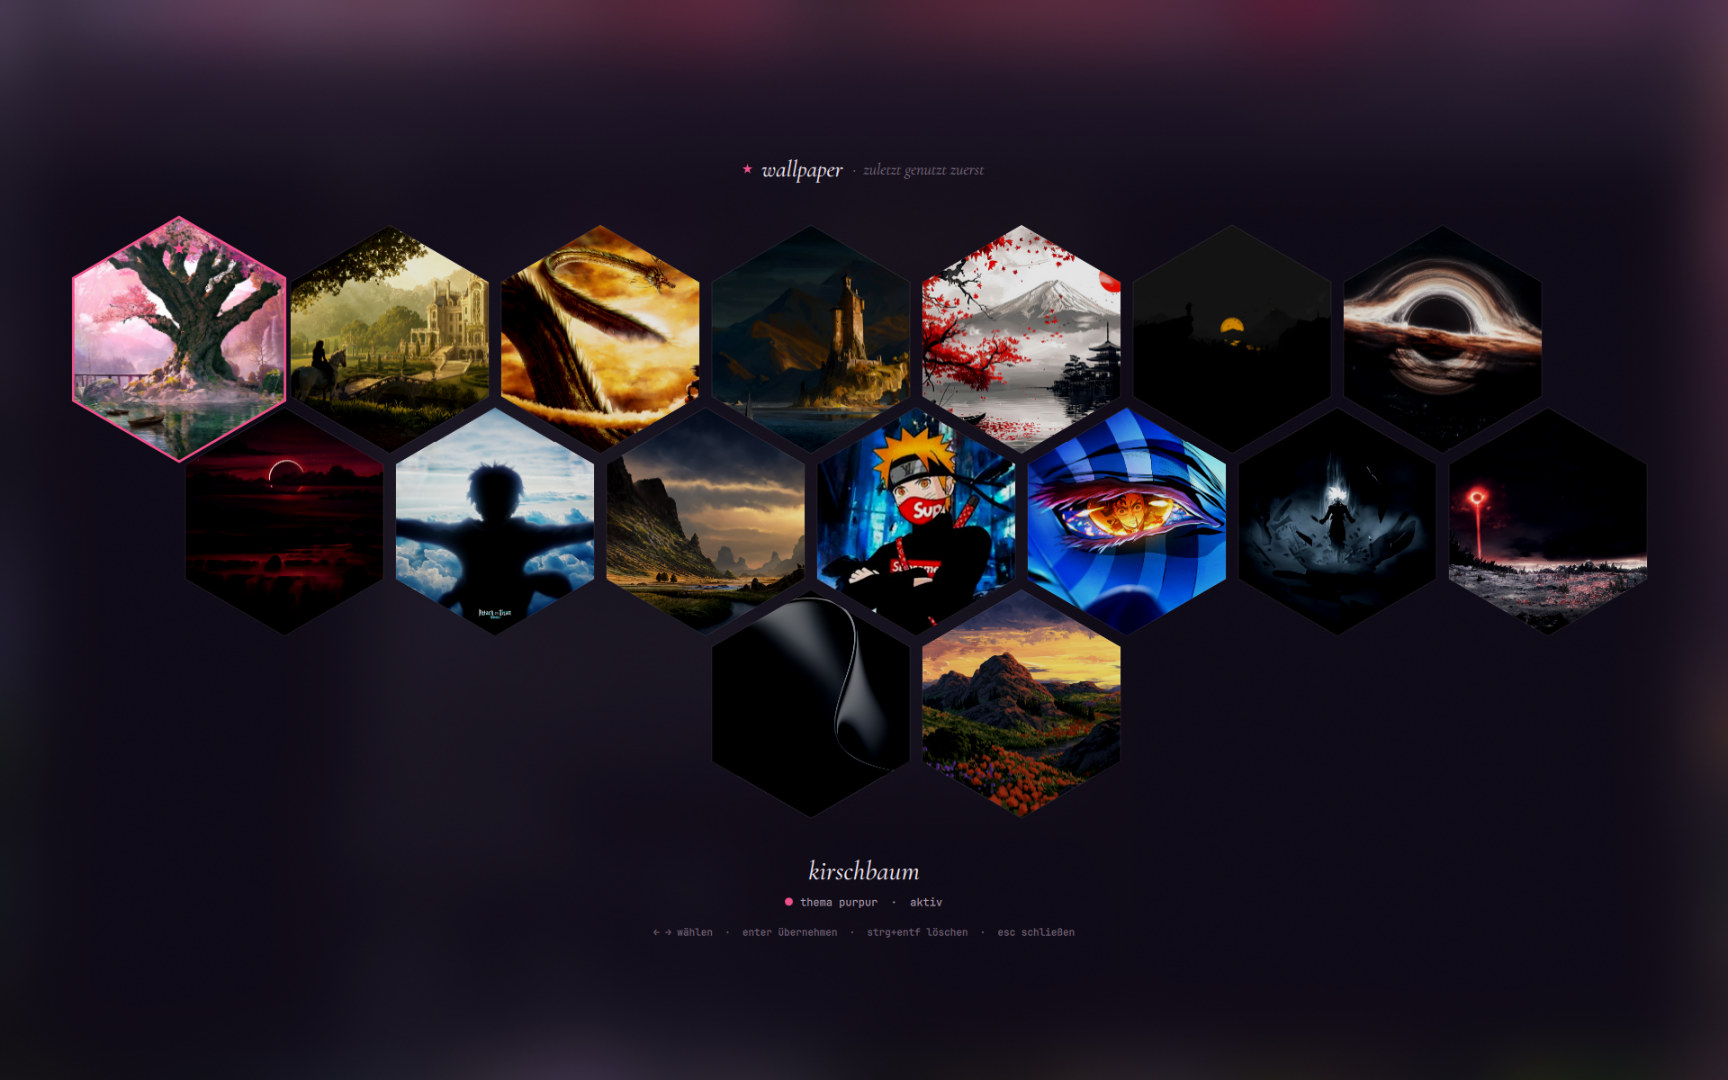
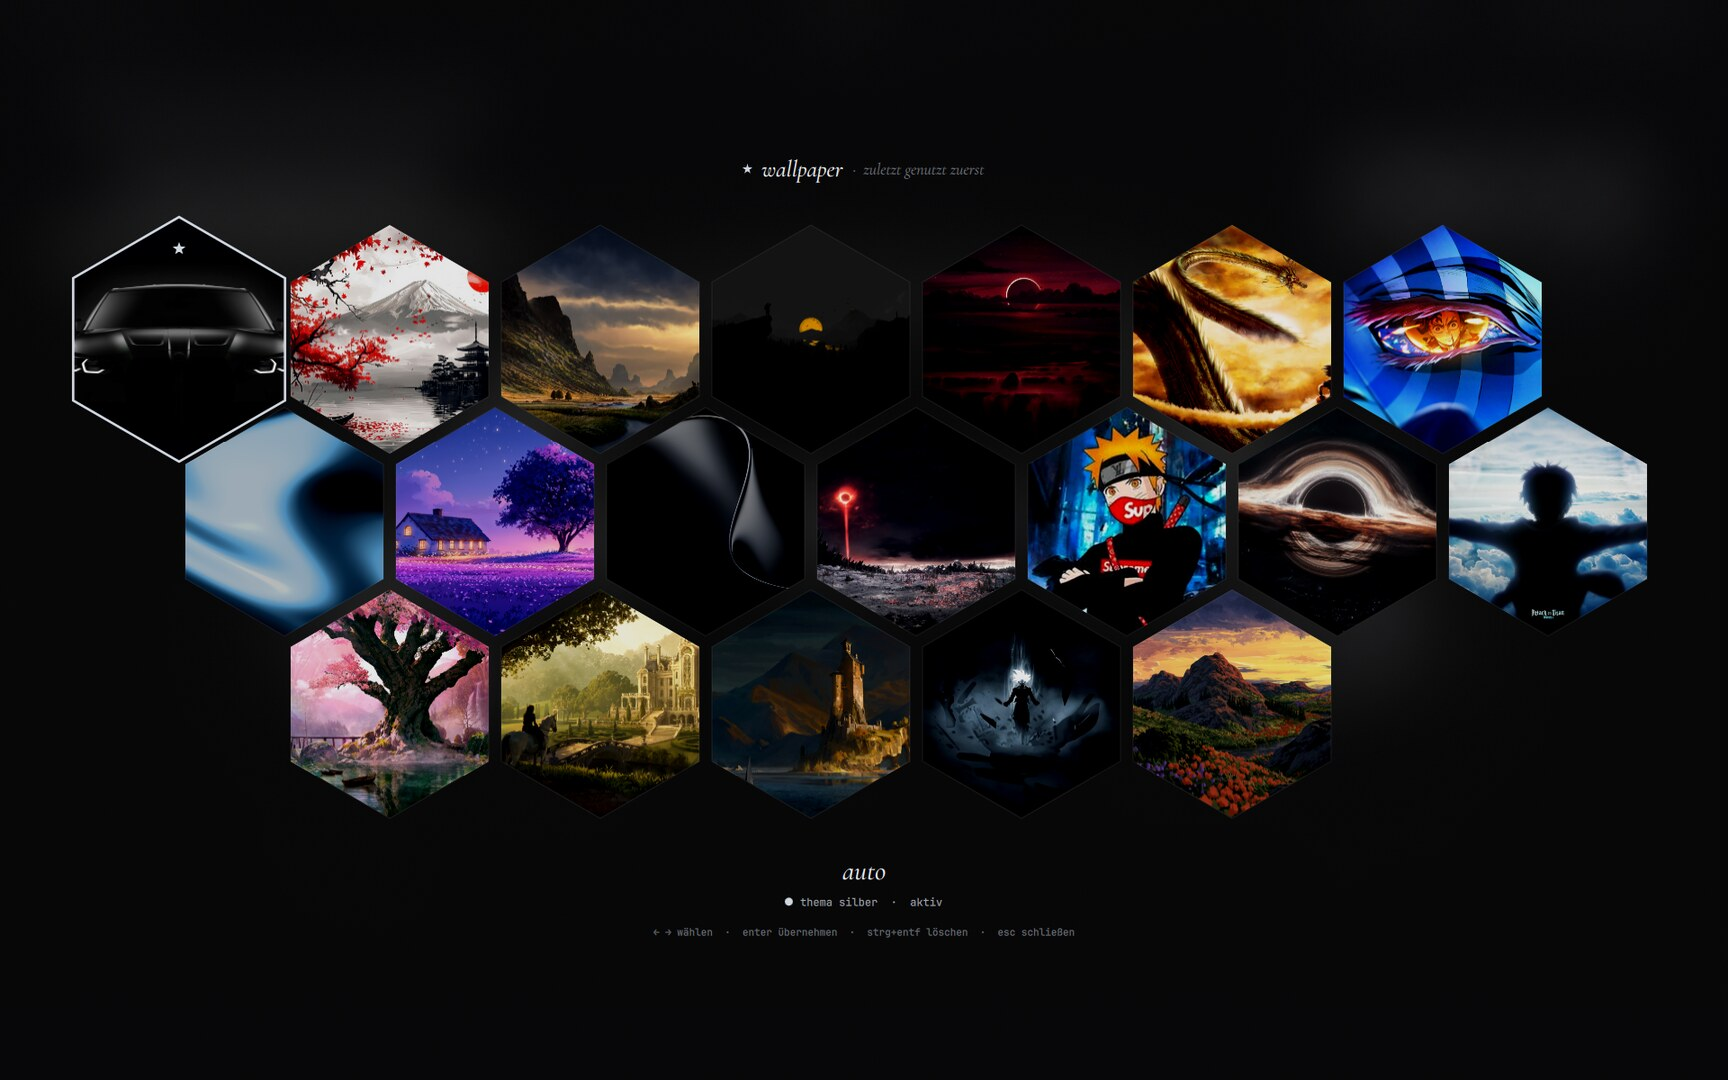
Screenshots neu aufgenommen, App Wallpaper, Thema lila und AirDrop im README

diff --git a/hypr/docs/system.md b/hypr/docs/system.md
@@ -50,6 +50,9 @@ Treiber fürs Dock (`17e9:6000`): RPM `fedora-43-displaylink-*.x86_64.rpm` von [
 
 GUI zum Anordnen der Monitore ([GitHub](https://github.com/nwg-piotr/nwg-displays)), schreibt `~/.config/hypr/monitors.lua` (siehe `docs/hyprland.md` → Aufbau, Punkt 2). Nicht in Fedora → Quelltext (reines Python, GTK3) in `~/.local/opt/nwg-displays/nwg_displays`, Starter `~/.local/bin/nwg-displays` (setzt `sys.path`, kein pip nötig), Desktop-Eintrag `~/.local/share/applications/nwg-displays.desktop` (Name „Bildschirme“, im App-Starter auch unter Monitor/Display/Dock), Symbol `~/.local/share/icons/hicolor/scalable/apps/nwg-displays.svg`, Einstellungen `~/.config/nwg-displays/config` (`use-desc: true`). Braucht `python3-gobject`, `gtk3`, `gtk-layer-shell`, `python3-i3ipc` (alle installiert). Oberfläche englisch (keine deutsche Übersetzung). Hat auch Profile (z. B. „Dock“/„unterwegs“). Ihre `hyprctl dispatch dpms …`-Aufrufe sind alte Syntax und wirken unter Lua nicht – egal. Update: neues Release-Archiv laden, Ordner `nwg_displays` ersetzen, `VERSION` anpassen.
 
+## Benutzerordner (xdg-user-dirs)
+`~/.config/user-dirs.dirs`: Downloads → **`$HOME/downloads`** (klein). **Fallstrick:** steht dort `$HOME/`, legen Firefox/Chromium-Apps selbst ein grosses `~/Downloads` an – Eintrag muss auf einen echten Ordner zeigen.
+
 ## Windows-Partition
 
 Dualboot: `nvme0n1p3` „Windows-SSD“ (NTFS, 805 GB, **kein BitLocker**, UUID `DA44DC9944DC79A9`). In `/etc/fstab` mit `ntfs-3g` nach **`/mnt/windows`**, Optionen `uid=1000,gid=1000,umask=022,windows_names,hide_hid_files,noatime,nofail,x-systemd.automount,x-systemd.idle-timeout=10min,x-systemd.device-timeout=5s,x-gvfs-show,x-gvfs-name=Windows` → wird beim ersten Zugriff ohne Passwort eingehängt, nach 10 min ohne Zugriff wieder ausgehängt, Boot wartet nie darauf. Link **`~/Windows`** → `/mnt/windows`; Benutzerordner `~/Windows/Users/eduar` (Desktop, Documents, Downloads, OneDrive). `windows_names` verhindert Dateinamen, die Windows nicht kann. `hide_hid_files`: in Windows versteckte Dateien (Attribut hidden, z. B. `desktop.ini`, Office-Sperrdateien `~$…`, `NTUSER.DAT`, `AppData`) sind unter Linux **gar nicht** gelistet (auch nicht mit Strg+H), per vollem Pfad aber erreichbar (Strg+L → `~/Windows/Users/eduar/AppData`). Attribute prüfen: `getfattr --only-values -n system.ntfs_attrib_be <datei> | od -An -tx1` (0x02 = versteckt, 0x04 = System). Neue Mount-Optionen greifen erst nach dem Aushängen (`systemctl stop mnt-windows.mount`, geht nur, wenn kein Programm drin ist). **Fallstricke:** Windows im Schnellstart/Ruhezustand heruntergefahren → `ntfs-3g` verweigert das Einhängen (`~/Windows` meldet Fehler) – in Windows „Neu starten“ statt „Herunterfahren“ oder Schnellstart aus; OneDrive-Dateien „nur online“ sind nur Platzhalter und lassen sich unter Linux nicht öffnen. Prüfen: `pkexec ntfs-3g.probe --readwrite /dev/nvme0n1p3` (0 = ok). Sicherung der alten fstab: `/etc/fstab.vor-windows-<datum>`. `findmnt --verify` warnt bei ntfs-3g (FUSE) – harmlos.

diff --git a/README.md b/README.md
@@ -23,7 +23,7 @@
     <td width="50%"><img src="screenshots/galerie.jpg" alt="Wallpaper gallery as a honeycomb"><br><sub><b>Wallpaper gallery</b> (Super+W): the color theme changes with the picture</sub></td>
   </tr>
   <tr>
-    <td colspan="2"><img src="screenshots/tastenkuerzel.jpg" alt="Overview of all keybindings"><br><sub><b>Super+I</b> shows all keybindings as a cheat sheet</sub></td>
+    <td colspan="2"><img src="screenshots/wallpaper-app.jpg" alt="Wallpaper app with live preview"><br><sub><b>Wallpaper app</b>: add pictures, create and edit color themes with a live mini-desktop preview</sub></td>
   </tr>
 </table>
 
@@ -35,7 +35,8 @@
 - **Quickshell UI in QML** (`quickshell/`): top bar with taskbar, control center (Wi-Fi, Bluetooth, sound, night mode, rolling one-month calendar with your Google events), desktop clock, volume OSD.
 - **Task view with live previews** (Super+Tab) and an Alt+Tab window switcher.
 - **Music panel** like a small Spotify (Web API): playlists, search, controls, plus **synced lyrics** on the desktop.
-- **Six color themes** (`golden`, `glut`, `kohle`, `purpur`, `mond`, `silber`): Hyprland, Quickshell, mako, rofi, kitty and hyprlock take their colors from the active theme.
+- **Seven color themes** (`golden`, `glut`, `kohle`, `purpur`, `lila`, `mond`, `silber`) plus your own, made in the **Wallpaper app**: Hyprland, Quickshell, mako, rofi, kitty and hyprlock take their colors from the active theme.
+- **AirDrop** panel (send files to iPhone/Mac) and **iPhone mirroring** (UxPlay).
 - **Living wallpaper**: clouds drift, grass and trees move in the wind, water sparkles (GLSL shaders).
 - **Window mode** tiled ↔ free (Super+O), drop-down terminal, hide windows instead of minimizing.
 - **Plugins**: a custom wobbly-windows plugin in C++ (`hypr/plugins/wobbly`), plus [Phantomat](https://github.com/kaolti/phantomat) (infinite window canvas) and HyprWindowShade (window shaders).

diff --git a/hypr/CHANGELOG.md b/hypr/CHANGELOG.md
@@ -3,6 +3,8 @@
 Wird **nicht** automatisch geladen – nur lesen, wenn die Geschichte einer Änderung wichtig ist (z. B. Fehlersuche).
 Neueste Einträge oben. Format: `JJJJ-MM-TT – was (Dateien) – warum`, **höchstens 3 Zeilen** (keine Testprotokolle, keine Zitate). Einträge bis 2026-10-08 sind noch ausführlicher.
 
+- **2026-10-22** – README + `screenshots/` neu (linker Bildschirm), neues Bild `wallpaper-app.jpg`, Themen-/AirDrop-Zeilen ergänzt – Repo auf Stand gebracht.
+- **2026-10-21** – `XDG_DOWNLOAD_DIR` war `$HOME/` → Programme legten immer wieder `~/Downloads` an; jetzt `$HOME/downloads`, `~/Downloads` gelöscht (Inhalt verschoben) – Fehler.
 - **2026-10-21** – App „Wallpaper“ (`WallpaperStudio.qml`, `ThemePreview.qml`, `ColorField.qml`, rofi-Starter): Bilder hinzufügen/löschen/Thema zuordnen, Farbthemen erstellen/bearbeiten mit Mini-Desktop-Vorschau; Themenfarben jetzt nur in `themen/<name>/farben.json`, Rest erzeugt `thema-bauen.py` (Theme.qml, hyprland.lua, seide-standbild.py lesen daraus) – Wunsch des Benutzers, vorher 4 Stellen von Hand.
 - **2026-10-20** – Thema „lila“ = Accenture-Lila (`#a100ff`, deep `#7500c0`, soft `#dcafff`) – Wunsch des Benutzers.
 - **2026-10-20** – Thema „lila“ kräftiger (accent `#a66bff`, Glas violetter) – war dem Benutzer zu blass.

diff --git a/hypr/AGENTS.md b/hypr/AGENTS.md
@@ -3,7 +3,7 @@
 Kern-Doku des Desktop-Setups (Hyprland + Quickshell + Hilfsprogramme). Diese Datei wird **immer** geladen und enthält
 nur, was man bei jeder Arbeit am Desktop braucht. Alles Weitere steht in `docs/` und wird **nur bei Bedarf** gelesen.
 
-**Stand:** 2026-10-21
+**Stand:** 2026-10-22
 
 ---
 
